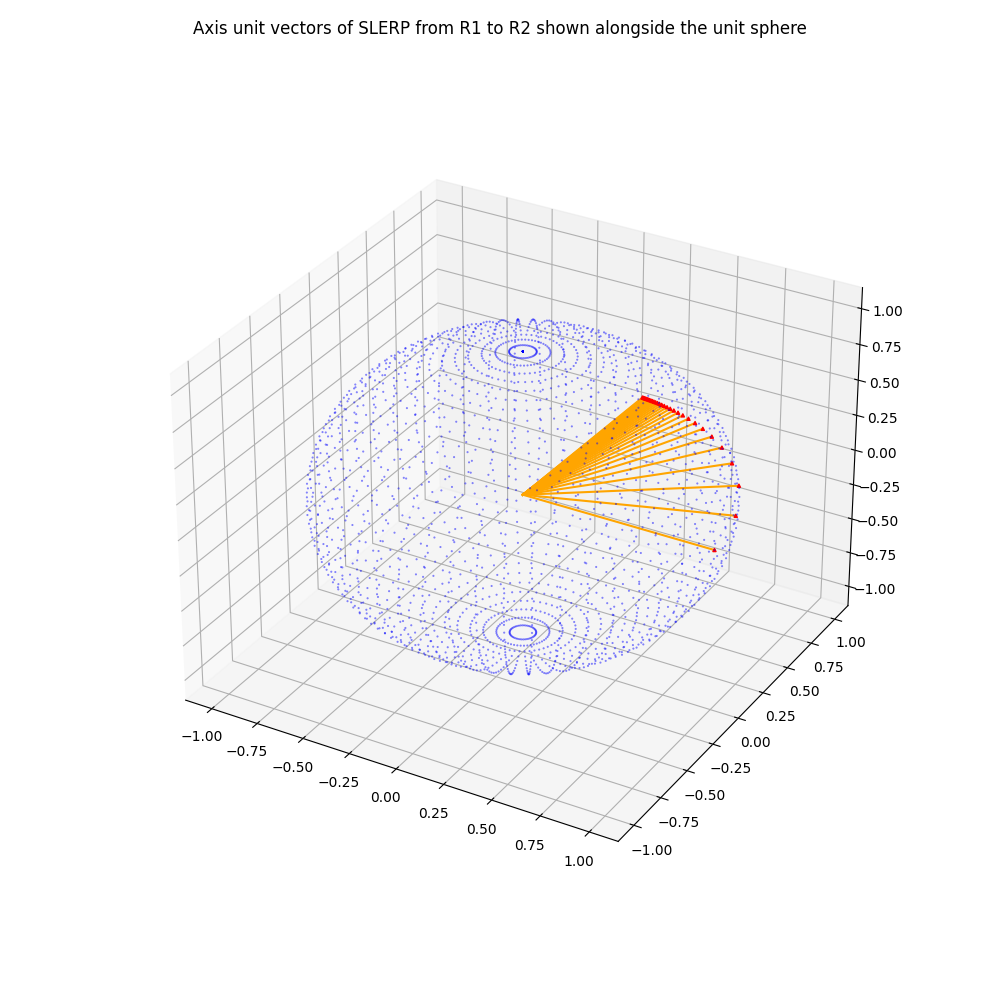
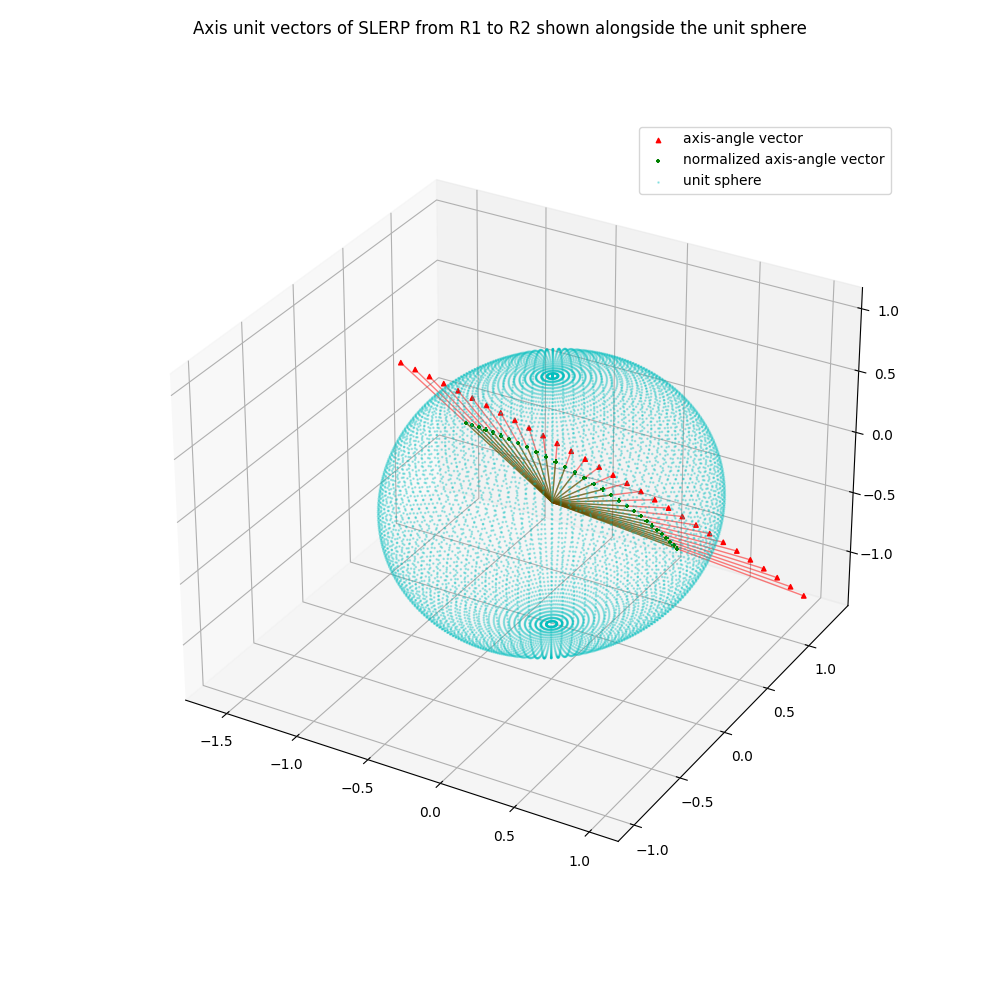
Managed to improve and correct the mistakes in the previous commit, now have a good visual demonstration of the spherical linear interpolation. I will now go ahead and implement the quaternion version of slerp, which is more efficient in interpolation but worse in optimization. Then, I will write th

diff --git a/scripts/visualizer.py b/scripts/visualizer.py
@@ -12,12 +12,14 @@ def draw_sphere(n_pts: int = 50):
     return xs, ys, zs
 
 def visualize(Rs_interp: list, draw_3d: bool):
-    f, ax = plt.subplots(1,4,figsize=(14,8))
-    plt.subplots_adjust(left=0.05,bottom=0.05,right=0.9,top=0.88,wspace=0.5,hspace=0.4)
+    f, ax = plt.subplots(1,4,figsize=(20,6))
+    plt.subplots_adjust(left=0.03,bottom=0.05,right=0.97,top=0.88,wspace=0.5,hspace=0.4)
     f.suptitle(f'Spherical Linear Interpolation from R1 to R2 into {len(Rs_interp)} points in Axis-Angle Representation')
 
     idxs, thetas, ks_x, ks_y, ks_z = [*range(len(Rs_interp))], [], [], [], []
+    ks_norm, ks_norm_x, ks_norm_y, ks_norm_z = [], [], [], []
     idxs_metrics = [*range(len(Rs_interp)-1)]
+    print(f'Rs_interp[0] :\n{Rs_interp[0]}')
     geodesic_metrics, hyperbolic_metrics, frobenius_metrics = compute_metrics(Rs_interp[0], Rs_interp)
     for R_interp in Rs_interp:
         k_inv, theta_inv, R_log = log_map_from_SO3_to_so3(R_interp)
@@ -25,17 +27,22 @@ def visualize(Rs_interp: list, draw_3d: bool):
         ks_x.append(k_inv[0])
         ks_y.append(k_inv[1])
         ks_z.append(k_inv[2])
-
+        k_norm = np.linalg.norm(k_inv)
+        ks_norm.append(k_norm)
+        ks_norm_x.append(k_inv[0]/k_norm)
+        ks_norm_y.append(k_inv[1]/k_norm)
+        ks_norm_z.append(k_inv[2]/k_norm)
     ax[0].scatter(idxs, thetas)
     ax[0].set_title('axis angle in degrees')
-    
+    ax[1].plot(idxs, ks_norm, c='orange', alpha=0.5)
     ax[1].plot(idxs, ks_x, c='r', alpha=0.5)
     ax[1].plot(idxs, ks_y, c='g', alpha=0.5)
     ax[1].plot(idxs, ks_z, c='b', alpha=0.5)
+    ax[1].scatter(idxs, ks_norm, c='orange', alpha=0.5)
     ax[1].scatter(idxs, ks_x, c='r', s=8, alpha=0.5)
     ax[1].scatter(idxs, ks_y, c='g', s=8, alpha=0.5)
     ax[1].scatter(idxs, ks_z, c='b', s=8, alpha=0.5)
-    ax[1].legend(('x axis','y axis','z axis'))
+    ax[1].legend(('Frobenius norm of axis vector,\nequals to angle in radians','component in x axis','component in y axis','component in z axis'), fontsize=10)
     ax[1].set_title('axis vector')
     ax[2].plot(idxs_metrics, geodesic_metrics, c='r')
     ax[2].plot(idxs_metrics, hyperbolic_metrics, c='g')
@@ -48,33 +55,38 @@ def visualize(Rs_interp: list, draw_3d: bool):
     ax[3].plot(idxs_metrics, geodesic_metrics, c='r')
     ax[3].scatter(idxs_metrics, geodesic_metrics, s=8,  c='r')
     ax[3].set_yscale('log')
-    ax[3].set_title('geodesic metric plotted \nalone for accuracy')
+    ax[3].set_title('geodesic metric plotted \nin log scale for accuracy')
     plt.savefig('slerp_0.png')
 
     if draw_3d:
-        sphere_x, sphere_y, sphere_z = draw_sphere(50)
+        sphere_x, sphere_y, sphere_z = draw_sphere(100)
         f3d = plt.figure(figsize=(10,10))
         f3d.suptitle('Axis unit vectors of SLERP from R1 to R2 shown alongside the unit sphere')
         ax3d = plt.axes(projection='3d')
         plt.subplots_adjust()
-        for (k_x, k_y, k_z) in zip(ks_x, ks_y, ks_z):
-            ax3d.plot3D([0,k_x],[0,k_y],[0,k_z], c='orange')
-        ax3d.scatter3D(ks_x, ks_y, ks_z, marker='^', s=5, c='r', alpha=1.0)
-        ax3d.scatter3D(sphere_x, sphere_y, sphere_z, marker='.', s=1, c='b', alpha=0.5)
+        ax3d.scatter3D(ks_x, ks_y, ks_z, marker='^', s=10, c='r', alpha=1.0)
+        ax3d.scatter3D(ks_norm_x,ks_norm_y,ks_norm_z, marker='+', s=10, c='g', alpha=1.0)
+        ax3d.scatter3D(sphere_x, sphere_y, sphere_z, marker='.', s=3, c='c', alpha=0.3)
+        ax3d.legend(('axis-angle vector', 'normalized axis-angle vector', 'unit sphere'))
+        for (k_x, k_y, k_z, k_norm) in zip(ks_x, ks_y, ks_z, ks_norm):
+            ax3d.plot3D([0,k_x],[0,k_y],[0,k_z], c='r', linewidth=1, alpha=0.5)
+            ax3d.plot3D([0,k_x/k_norm],[0,k_y/k_norm],[0,k_z/k_norm], c='g', linewidth=1, alpha=0.5)
         plt.savefig('slerp_1.png')
     plt.show()
 
 def main():
-    euler_angles_deg1 = np.array([10,0.,0.])
-    euler_angles_deg2 = np.array([80,80,80])
+    euler_angles_deg1 = np.array([125,100,40])
+    euler_angles_deg2 = np.array([75,150,150])
     R1 = R_from_euler_angles_rad(deg2rad(euler_angles_deg1))
     R2 = R_from_euler_angles_rad(deg2rad(euler_angles_deg2))
     k_inv1, theta_inv1, R_log1 = log_map_from_SO3_to_so3(R1)
     k_inv2, theta_inv2, R_log2 = log_map_from_SO3_to_so3(R2)
     Rs_interp = slerp(R1, R2, 30)
-    print(f'k1 :\n{k_inv1}\nk2 :\n{k_inv2}')
-    print(f'theta1 : {rad2deg(theta_inv1)}\t theta2 : {rad2deg(theta_inv2)}')
-    print(f'R_log1 :\n{R_log1}\nR_log2 :\n{R_log2}')
+    Rs_interp[0] = R1
+    #print(f'Rs_interp :\n{Rs_interp}')
+    #print(f'k1 :\n{k_inv1}\nk2 :\n{k_inv2}')
+    #print(f'theta1 : {rad2deg(theta_inv1)}\t theta2 : {rad2deg(theta_inv2)}')
+    #print(f'R_log1 :\n{R_log1}\nR_log2 :\n{R_log2}')
 
     draw_3d = True
     visualize(Rs_interp, draw_3d)

diff --git a/scripts/exp_and_log_map.py b/scripts/exp_and_log_map.py
@@ -109,17 +109,15 @@ def R_from_so3_to_SO3(w: np.ndarray, w_des: np.ndarray) -> np.ndarray:
     R = np.eye(3) + np.sin(theta) * K + (1 - np.cos(theta)) * K@K
     return k, theta, R
 
-def exp_map_from_so3_to_SO3(k: np.ndarray, theta: float):
+def exp_map_from_so3_to_SO3(k: np.ndarray, blank):
     if not isinstance(k, np.ndarray):
         raise NotNumpyArray
-    if not isinstance(theta, float):
-        raise NotFloat
     if k.ndim != 1:
         raise NotOneDimArray
     if k.shape[0] != 3:
         raise Not3Vector
-    if theta < 0 or theta > 2*np.pi:
-        theta = theta % (2*np.pi)
+    #if theta < 0 or theta > 2*np.pi:
+    #    theta = theta % (2*np.pi)
     K = skew_symmetric(k)
     # R = I_3 + sin(theta)*K + (1-cos(theta))*K^2
     # where the skew_symmetric and symmetric decomposition of R is :
@@ -127,7 +125,8 @@ def exp_map_from_so3_to_SO3(k: np.ndarray, theta: float):
     # any square matrix can be written uniquely as a skew-symmetric matrix
     # sin(theta)*K  : (R-R.T)/2 -> skew_symmetric
     # I_3 + (1-cos(theta))*K^2 : (R+R.T)/2 -> symmetric
-    R = np.eye(3) + np.sin(theta) * K + (1 - np.cos(theta)) * K@K
+    theta = np.linalg.norm(k)
+    R = np.eye(3) + np.sin(theta)/theta * K + (1 - np.cos(theta))/(theta**2) * K@K
     return k, theta, R
 
 def log_map_from_SO3_to_so3(R: np.ndarray) -> np.ndarray:
@@ -143,7 +142,7 @@ def log_map_from_SO3_to_so3(R: np.ndarray) -> np.ndarray:
     # angle of rotation theta (rad)
     theta = np.arccos((trace(R) - 1) / 2)
     #print('theta :\n',theta)
-    R_log = (1 / (2*np.sin(theta))) * (R - R.T)
+    R_log = (theta / (2*np.sin(theta))) * (R - R.T)
     # axis of rotation vector k
     k = vee_operator(R_log)
     return k, theta, R_log

diff --git a/scripts/slerp.py b/scripts/slerp.py
@@ -32,7 +32,7 @@ def slerp(R1: np.ndarray, R2: np.ndarray, n_steps: int = 25):
     for lamda in np.linspace(0.0, 1.0, n_steps):
         R1_inv = np.linalg.inv(R1)
         k_log, theta_log, R_log = log_map_from_SO3_to_so3(R1_inv @ R2)
-        k, theta, R = exp_map_from_so3_to_SO3(k_log, lamda*theta_log)
+        k, theta, R = exp_map_from_so3_to_SO3(lamda*k_log, lamda*theta_log)
         Rs_interp.append(R1 @ R)
     #print(f'Rs_interp :\n{Rs_interp}')
     return Rs_interp
@@ -47,7 +47,6 @@ def compute_metrics(R1: np.ndarray, Rs_interp: list):
         geodesic_metrics.append(geodesic_metric(R1, R_interp))
         hyperbolic_metrics.append(hyperbolic_metric(R1, R_interp))
         frobenius_metrics.append(frobenius_metric(R1, R_interp))
-    print(geodesic_metrics)
     return geodesic_metrics, hyperbolic_metrics, frobenius_metrics
 
 # euler_angles in rad : [roll, pitch, yaw]
